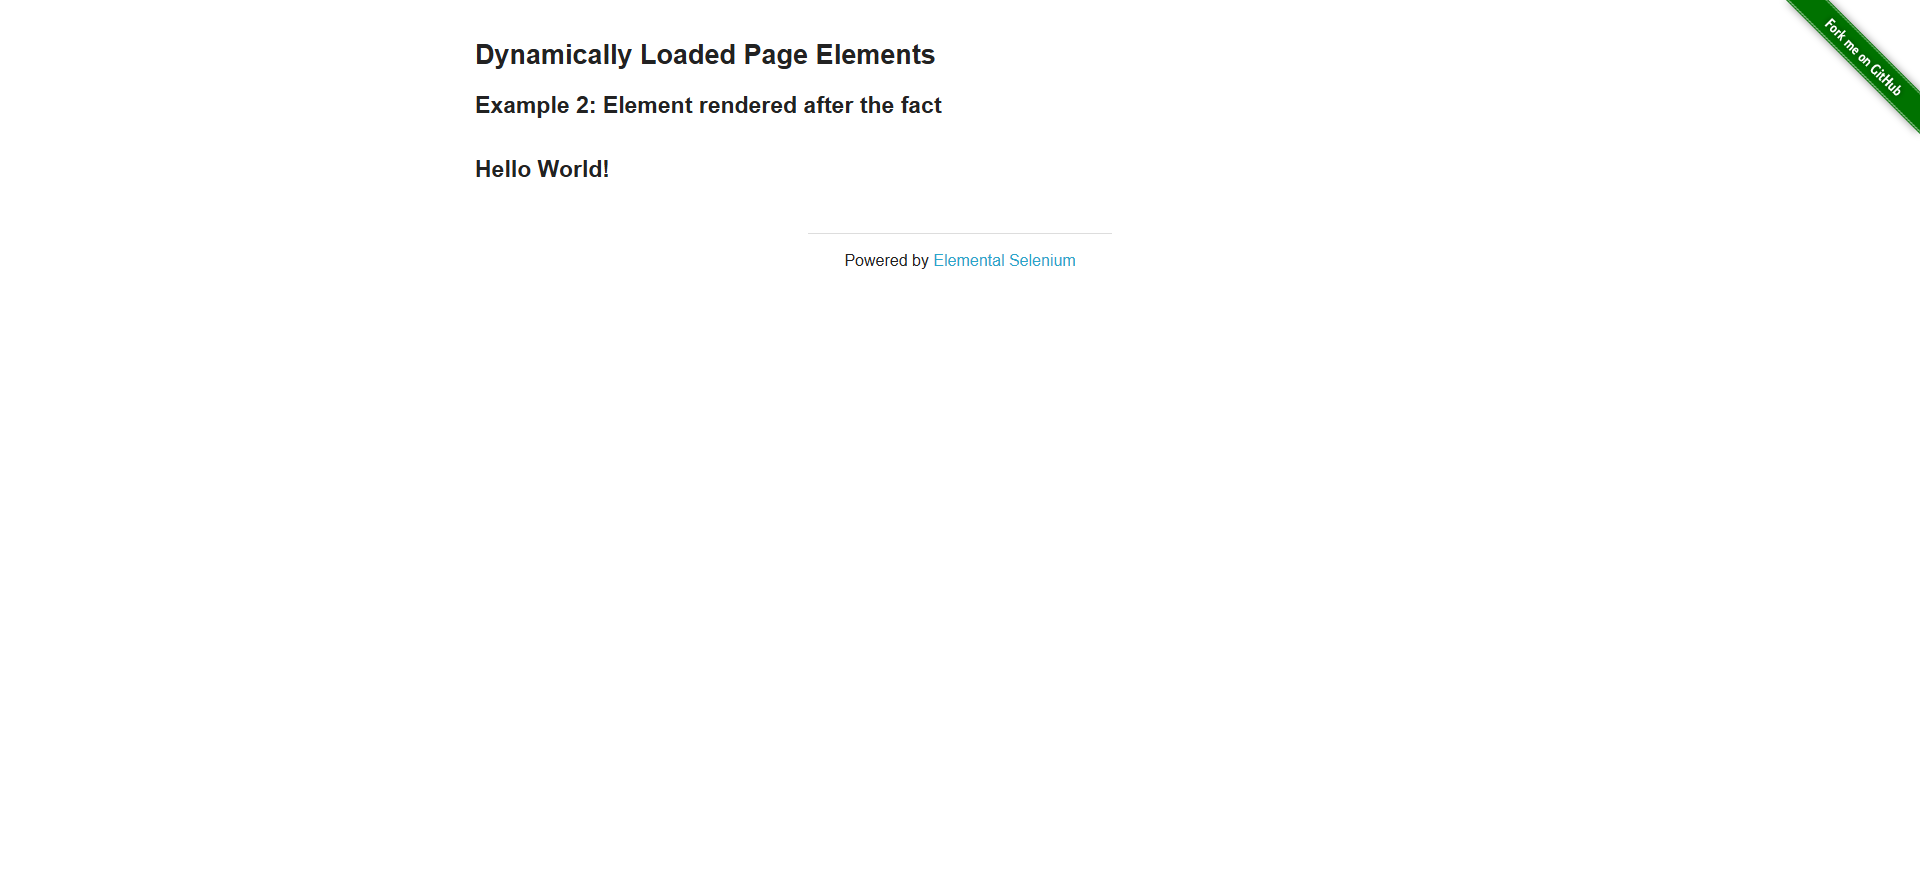
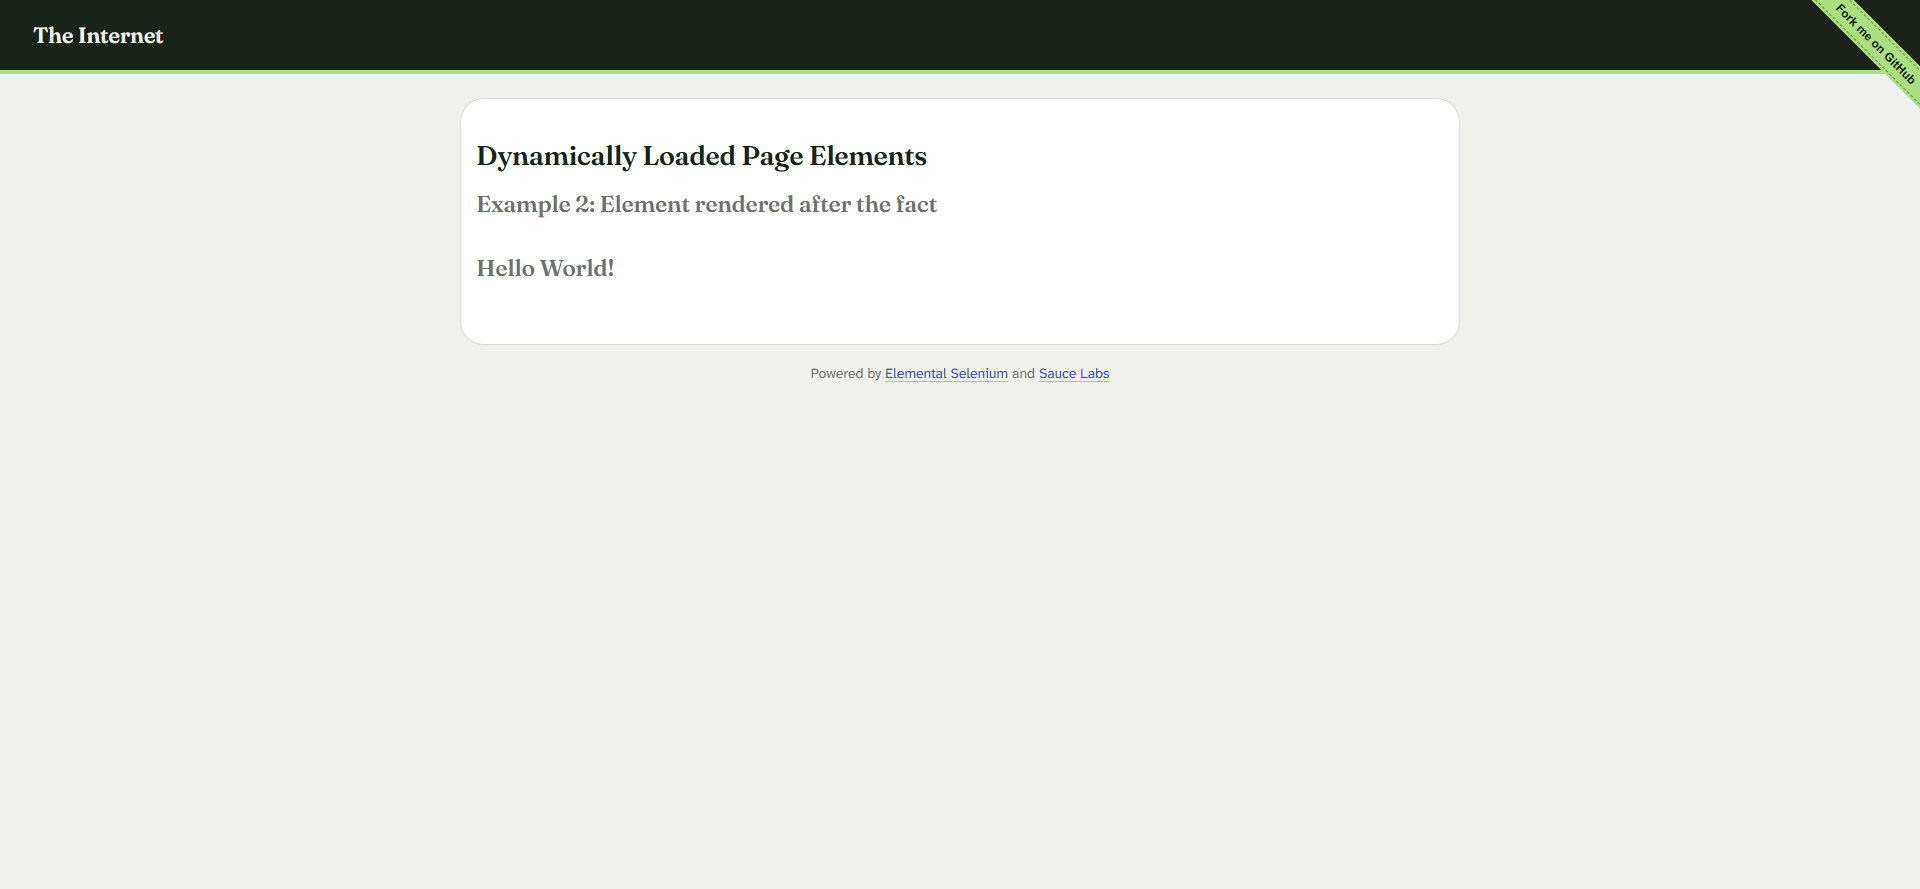
commit lesson06 2 files correct

diff --git a/lesson_06/test_lesson06_task2.py b/lesson_06/test_lesson06_task2.py
@@ -1,103 +1,76 @@
+# 1 аккаунт
+# trofimov.world@yandex.ru
+# A1S2D3F4q1w2e3r4*g
+
+# 2 аккаунт
+# trofimov7375@yandex.ru
+# MyBigParole2026
+
+
 from selenium import webdriver
 from selenium.webdriver.common.by import By
 from selenium.webdriver.support.ui import WebDriverWait
 from selenium.webdriver.support import expected_conditions as EC
-from selenium.common.exceptions import NoSuchElementException
-# добавлены, часто падал тест
-from selenium.webdriver.chrome.options import Options
-import time
 
 
-def wait_for_syte_answer():  # добавлен, часто падал тест
-    time.sleep(5)
+SESSION_VALUE_1 = "MDVmODE0ODUtYmY0My00MGFiLThlMWUtMWEyOWRjZjU2OThk"
+SESSION_VALUE_2 = "ZjEwMmZiZmUtYWViMC00ZjI5LTg1NjAtMTRhNTExYmU3NmZj"
+COOKIES_ACCEPTED = "true"
+BASE_URL = "https://gitflic.ru/"
 
 
 def test_session_storage_auth():
-    options = Options()                         # добавлен, часто падал тест
-    options.page_load_strategy = 'eager'        # добавлен, часто падал тест
-    driver = webdriver.Chrome(options=options)  # добавлен, часто падал тест
-    # driver = webdriver.Chrome()
+    driver = webdriver.Chrome()
     driver.maximize_window()
-    driver.get("https://gitflic.ru/")
-    wait = WebDriverWait(driver, 40)
+    driver.get(BASE_URL)
     driver.delete_all_cookies()
+    wait = WebDriverWait(driver, 50)
 
-    driver.find_element(By.CSS_SELECTOR, '[href="/auth/login"]').click()
-    wait_for_syte_answer()
+    # Cookies 1-го аккаунта
 
-    input_login = driver.find_element(By.ID, "email")
-    input_login.clear()
-    input_login.send_keys("trofimov.world@yandex.ru")
-    wait_for_syte_answer()
-    input_password = driver.find_element(By.ID, "passwordBasic")
-    input_password.clear()
-    input_password.send_keys("A1S2D3F4q1w2e3r4*g")
-    wait_for_syte_answer()
-    submit_button = driver.find_element(By.CLASS_NAME, "btn-success")
-    submit_button.click()
+    driver.add_cookie({
+        "name": "SESSION",
+        "value": SESSION_VALUE_1
+    })
+    driver.add_cookie({
+        "name": "cookiesAccepted",
+        "value": COOKIES_ACCEPTED
+    })
 
-    wait_for_syte_answer()
+    driver.refresh()
 
-    # ПРОВЕРЯЕМ НА ЭКРАН С КУКИ! СОГЛАСИЕ С НИМИ через try:
-    try:
-        cookies_btn = wait.until(EC.element_to_be_clickable(
-            (By.CSS_SELECTOR, ".cookiesBtn"))
+    profile_element = wait.until(
+        EC.presence_of_element_located(
+            (By.CLASS_NAME, "header-username")
         )
-        cookies_btn.click()
-        print("Куки приняты")
-    except NoSuchElementException:
-        print("Окно с куки не появилось — пропускаем")
-
-    driver.find_element(
-        By.CSS_SELECTOR, ".text-dark.profile-page__profile-name"
-    ).click()
+    )
+    profile_element.click()
 
     first_url = driver.current_url
     print(first_url)
 
-    wait_for_syte_answer()
-
-    # ВЫХОД
-    driver.find_element(
-        By.CSS_SELECTOR,
-        "button.gf-dropdown__toggle.btn.btn-link.text-muted.pl-0"
-    ).click()
-    wait.until(EC.element_to_be_clickable(
-        (By.CLASS_NAME, "gf-icon-logout"))
-    ).click()
-
-    wait_for_syte_answer()
-    driver.refresh()
+    driver.get(BASE_URL)
     driver.delete_all_cookies()
-    wait_for_syte_answer()
 
-    # Второй    https: // gitflic.ru / user / ilya_trofimov
-    driver.find_element(By.CSS_SELECTOR, '[href="/auth/login"]').click()
+    # Cookies 2-го аккаунта
+    driver.add_cookie({
+        "name": "SESSION",
+        "value": SESSION_VALUE_2
+    })
 
-    input_login = driver.find_element(By.ID, "email")
-    input_login.clear()
-    input_login.send_keys("trofimov7375@yandex.ru")
-    wait_for_syte_answer()
-    input_password = driver.find_element(By.ID, "passwordBasic")
-    input_password.clear()
-    input_password.send_keys("MyBigParole2026")
-    wait_for_syte_answer()
-    submit_button = driver.find_element(By.CLASS_NAME, 'btn-success')
-    submit_button.click()
+    driver.add_cookie({
+        "name": "cookiesAccepted",
+        "value": COOKIES_ACCEPTED
+    })
+    driver.refresh()
 
-    try:
-        cookies_btn = wait.until(EC.element_to_be_clickable(
-            (By.CSS_SELECTOR, ".cookiesBtn"))
+    profile_element = wait.until(
+        EC.presence_of_element_located(
+            (By.CLASS_NAME, "header-username")
         )
-        cookies_btn.click()
-        print("Куки приняты")
-    except NoSuchElementException:
-        print("Окно с куки не появилось — пропускаем")
-    wait_for_syte_answer()
+    )
 
-    driver.find_element(
-        By.CSS_SELECTOR, ".text-dark.profile-page__profile-name"
-    ).click()
+    profile_element.click()
 
     second_url = driver.current_url
     print(second_url)
@@ -105,5 +78,8 @@ def test_session_storage_auth():
     assert first_url != second_url, \
         f"URL одинаковы! {first_url} == {second_url}"
     print("Проверка пройдена: URL разные")
+
+    driver.refresh()
+    driver.delete_all_cookies()
 
     driver.quit()
